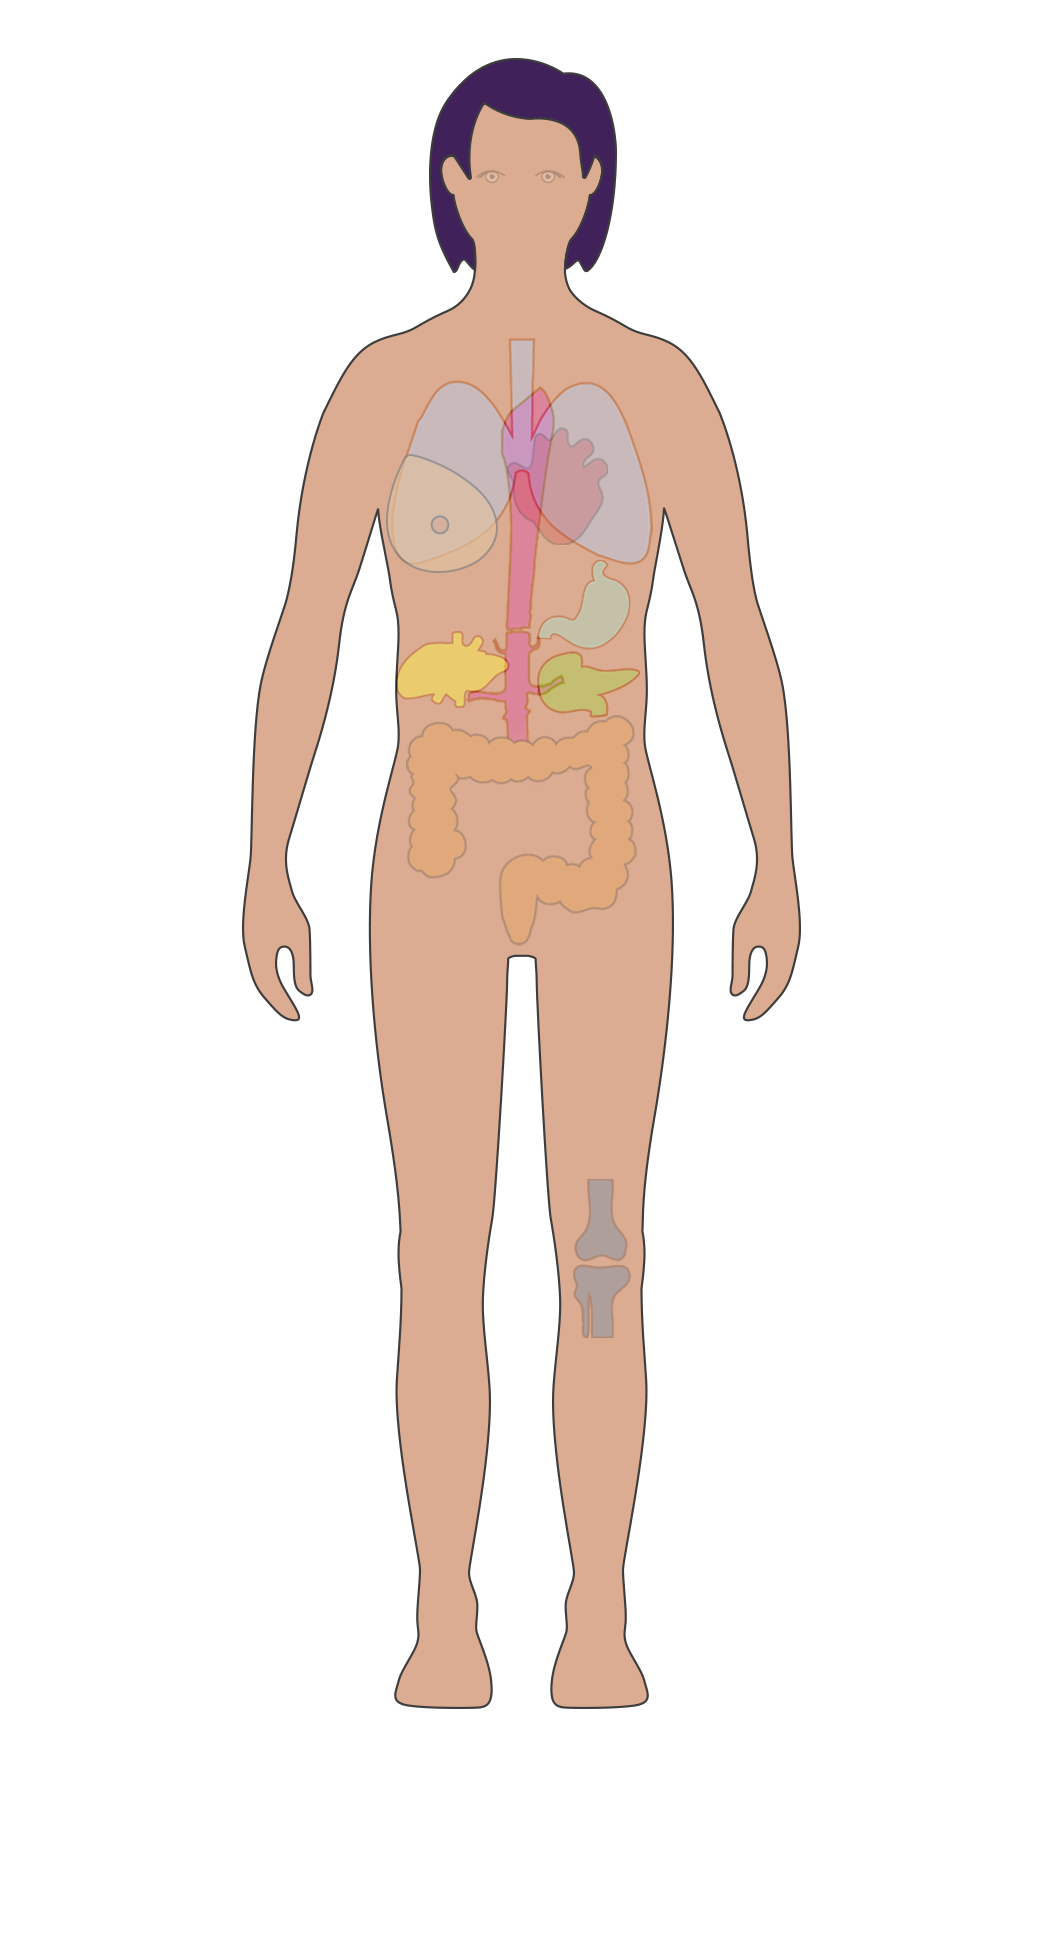
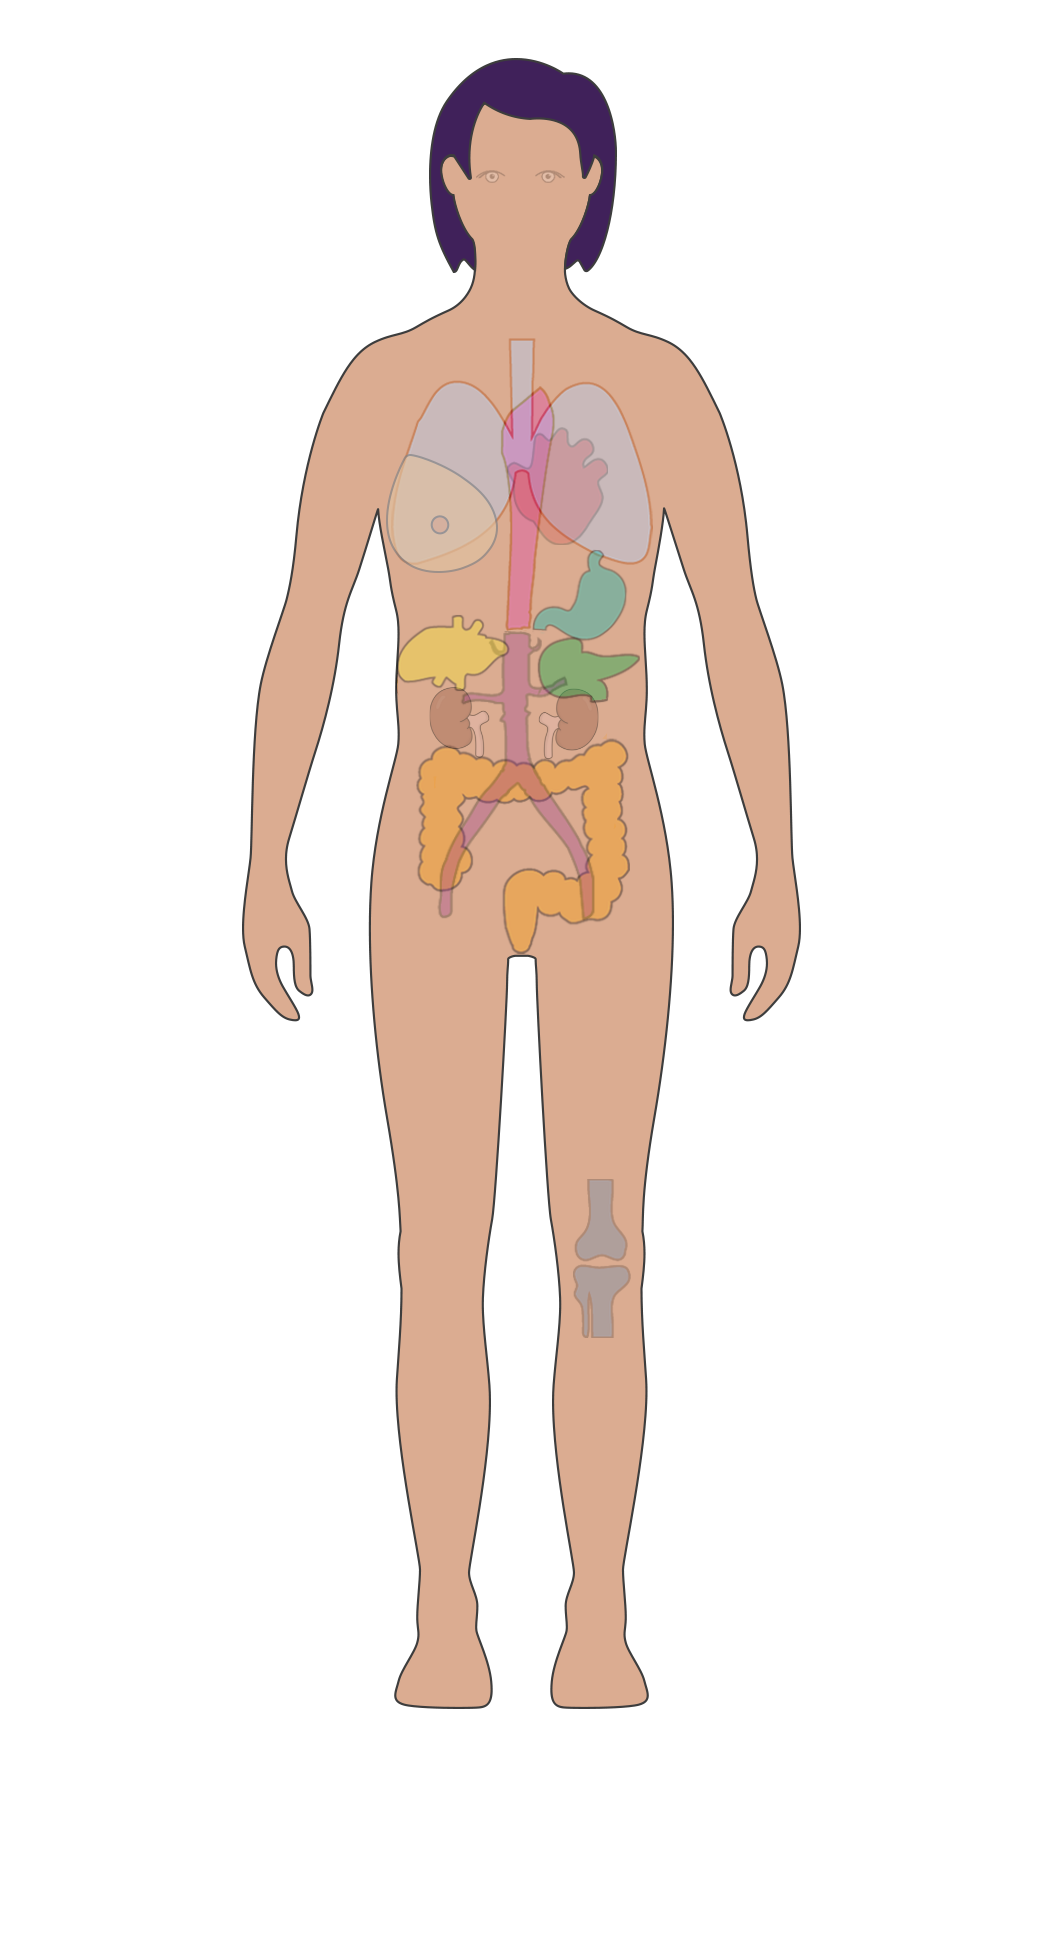
Adding Transgender kidney

Changed region(s): [[0.3654, 0.2768, 0.6089, 0.4921]]

diff --git a/src/Body/anatomicalView.js b/src/Body/anatomicalView.js
@@ -49,6 +49,8 @@ import TransLiver from '../assets/TransBody/trans_liver.png';
 import TransLungs from '../assets/TransBody/trans_lung.png';
 import TransPancreas from '../assets/TransBody/trans_pancreas.png';
 import TransStomach from '../assets/TransBody/trans_stomach.png';
+import TransKidney from '../assets/TransBody/trans_kidney.png';
+
 
 //import TransGenital from '../assets/Icons/male_genital.png';
 //Use following import and variable to show image on starting page (behind the Choose form)
@@ -436,6 +438,8 @@ class Anatomy extends React.Component {
                         <img id="Pancreas" className="organ" src={TransPancreas} alt="Pancreas" />
                         <img id="Stomach" className="organ" src={TransStomach} alt="Stomach" />
                         <img id="Genital" className="organ" src={transGenital} alt="Genitalt" />
+                        <img id="Kidney" className="organ" src={TransKidney} alt="Kidney" />
+
 
 
                         <Tooltip title={<h3 style={{ color: "#fff" }}>{this.props.lang.bowel}</h3>}><button id="bowelButton" className="bowel" test-id="bowelButton"
@@ -458,8 +462,13 @@ class Anatomy extends React.Component {
                             onClick={(button, text, organ) => this.organClicked("aorta", this.props.lang.aorta, "Aorta")} /></Tooltip>
                         <Tooltip title={<h3 style={{ color: "#fff" }}>{this.props.lang.heart}</h3>}><button id="heartButton" className="heart" test-id="heartButton"
                             onClick={(button, text, oran) => this.organClicked("heart", this.props.lang.heart, "Heart")} /></Tooltip>
+                        <Tooltip title={<h3 style={{ color: "#fff" }}>{this.props.lang.kidney}</h3>}><button id="kidneyButton" className="kidneyLeft" test-id="kidneyButton"
+                            onClick={(button, text, oran) => this.organClicked("kidney", this.props.lang.kidney, "Kidney")} /></Tooltip>
+                        <Tooltip title={<h3 style={{ color: "#fff" }}>{this.props.lang.kidney}</h3>}><button id="kidneyButton" className="kidneyRight" test-id="kidneyButton"
+                            onClick={(button, text, oran) => this.organClicked("kidney", this.props.lang.kidney, "Kidney")} /></Tooltip>
                         <Tooltip title={<h3 style={{ color: "#fff" }}>{this.props.lang.genitalia}</h3>}><button className="genitalia"
                             onClick={(button, text, organ) => this.organClicked("genitalia", this.props.lang.genitalia, "")} /></Tooltip>
+                       
                         <div className="icons">
                             <Tooltip title={<h3 style={{ color: "#fff" }}>{this.props.lang.brain}</h3>}><button id="brainButton" className="brain" test-id="brainButton"
                                 onClick={(button, text) => this.iconClicked("brain", this.props.lang.brain)}>
@@ -540,6 +549,7 @@ class Anatomy extends React.Component {
                         <img id="Pancreas" className="organ" src={TransPancreas} alt="Pancreas" />
                         <img id="Stomach" className="organ" src={TransStomach} alt="Stomach" />
                         <img id="Genital" className="organ" src={transGenital} alt="Genitalt" />
+                        <img id="Kidney" className="organ" src={TransKidney} alt="Kidney" />
 
 
                         <Tooltip title={<h3 style={{ color: "#fff" }}>{this.props.lang.bowel}</h3>}><button id="bowelButton" className="bowel" test-id="bowelButton"
@@ -564,6 +574,11 @@ class Anatomy extends React.Component {
                             onClick={(button, text, oran) => this.organClicked("heart", this.props.lang.heart, "Heart")} /></Tooltip>
                         <Tooltip title={<h3 style={{ color: "#fff" }}>{this.props.lang.genitalia}</h3>}><button className="genitalia"
                             onClick={(button, text, organ) => this.organClicked("genitalia", this.props.lang.genitalia, "")} /></Tooltip>
+                         <Tooltip title={<h3 style={{ color: "#fff" }}>{this.props.lang.kidney}</h3>}><button id="kidneyButton" className="kidneyLeft" test-id="kidneyButton"
+                            onClick={(button, text, oran) => this.organClicked("kidney", this.props.lang.kidney, "Kidney")} /></Tooltip>
+                        <Tooltip title={<h3 style={{ color: "#fff" }}>{this.props.lang.kidney}</h3>}><button id="kidneyButton" className="kidneyRight" test-id="kidneyButton"
+                            onClick={(button, text, oran) => this.organClicked("kidney", this.props.lang.kidney, "Kidney")} /></Tooltip>
+
                         <div className="icons">
                             <Tooltip title={<h3 style={{ color: "#fff" }}>{this.props.lang.brain}</h3>}><button id="brainButton" className="brain" test-id="brainButton"
                                 onClick={(button, text) => this.iconClicked("brain", this.props.lang.brain)}>

diff --git a/src/Body/Body.css b/src/Body/Body.css
@@ -233,7 +233,7 @@
     top: 42%;
     left: 50%;
     width: 23%;
-    height: 10%;
+    height: 7%;
   }
   
   .mainRunner .eyes {
@@ -249,6 +249,20 @@
     width: 11%;
     height: 6%;
   }
+
+   .mainRunner .kidneyLeft {
+    top: 37%;
+    left: 44%;
+    width: 8%;
+    height: 4%;
+  }
+
+  .mainRunner .kidneyRight {
+    top: 37%;
+    left: 55%;
+    width: 7%;
+    height: 3%;
+  }
   
   .mainRunner .bone {
     top: 65%;
@@ -258,7 +272,7 @@
   }
   
   .mainRunner .liver {
-    top: 34.5%;
+    top: 33.5%;
     left: 43%;
     width: 10%;
     height: 4%;
@@ -272,7 +286,7 @@
   }
   
   .mainRunner .pancreas {
-    top: 35%;
+    top: 34%;
     left: 56%;
     width: 11%;
     height: 3.5%;
